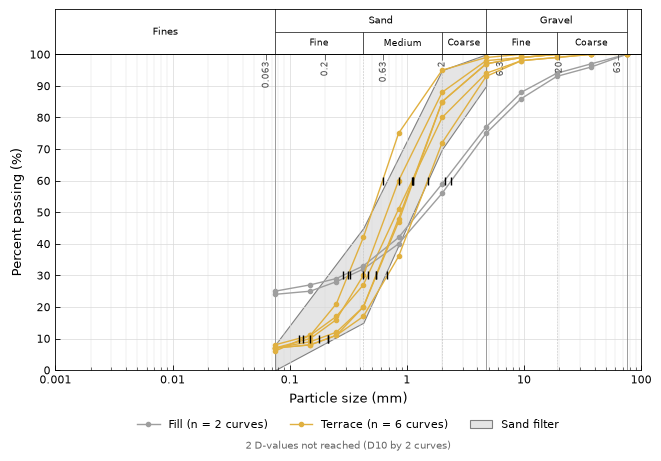
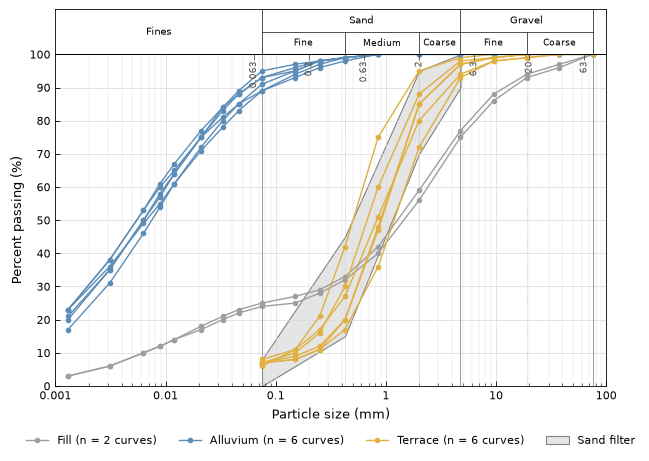
P05: continue the example curves into the fines, D-values off
The example site gains hydrometer tests on the fill bulk samples and the
upper alluvium tubes (six new lean clay curves), so the sample figures
show curves below the #200 sieve. They come from their own random
sequence, so no other example value changed, and QC still finds only the
two planted defects. The sample figures and the README line no longer
pass d_values=True, which is off by default.

diff --git a/tests/data/_make_examples.py b/tests/data/_make_examples.py
@@ -9,6 +9,9 @@ terrace sand, in US units as a US consultant's file would have them. Values
 come from fixed rules plus a seeded ``random.Random``, whose sequence Python
 keeps the same across versions, so the files are reproduced exactly.
 
+The fill and the upper alluvium tubes have hydrometer tests, so their
+grading curves continue into the fines; the terrace sands are sieved only.
+
 Two QC findings are planted, so the QC example has something to report:
 - G002, a gap in the geology log of B-4 from 9.0 to 10.0 ft;
 - A002, a plasticity index in B-3 that doesn't match LL - PL (an arithmetic slip).
@@ -33,6 +36,9 @@ _spec.loader.exec_module(_files)
 group, write_group = _files.group, _files.write_group
 
 rng = random.Random(2026)
+# Hydrometer values have their own sequence, so adding them left every other
+# value in the files unchanged.
+hydrometer_rng = random.Random(2027)
 
 ABBR = [
     ("LOCA_TYPE", "HSA", "Hollow stem auger"),
@@ -70,6 +76,8 @@ DESCRIPTIONS = {
     "TRC": ("SP", "Terrace", "Medium dense to very dense brown SAND with gravel (SP)"),
 }
 SIEVES = [75.0, 37.5, 19.0, 9.5, 4.75, 2.0, 0.85, 0.425, 0.25, 0.15, 0.075]  # mm
+# Hydrometer particle sizes (mm), as a lab's readings at set times give them.
+HYDROMETER = [0.046, 0.033, 0.021, 0.012, 0.0089, 0.0063, 0.0031, 0.0013]
 
 STRATA = """\
 code,geology_unit,soil_class,order,color
@@ -281,11 +289,32 @@ def curve(d50, slope, fines):
     return passing
 
 
+def fines_curve(fines, d50, slope):
+    """Percent passing each hydrometer size, continuing down from the #200 sieve.
+
+    An S-curve through the fines, scaled to meet ``fines`` at 0.075 mm and
+    never rising as size falls.
+    """
+
+    def share(size):
+        return 1 / (1 + (d50 / size) ** slope)
+
+    passing, last = [], fines
+    for size in HYDROMETER:
+        last = min(last, round(fines * share(size) / share(0.075)))
+        passing.append(last)
+    return passing
+
+
 def grading():
-    """GRAG and GRAT rows for each terrace spoon and fill bulk sample."""
+    """GRAG and GRAT rows for each terrace spoon, fill bulk and upper alluvium tube.
+
+    The fill and alluvium have hydrometer points below the #200 sieve.
+    """
     grag, grat = [], []
     for sample in samples():
-        _, _, _, kind, _ = sample
+        _, top, _, kind, _ = sample
+        hydrometer = None
         if kind == "D":
             passing = curve(
                 rng.uniform(0.5, 1.4), rng.uniform(1.6, 2.4), rng.randint(3, 9)
@@ -294,14 +323,32 @@ def grading():
             passing = curve(
                 rng.uniform(1.5, 3.0), rng.uniform(0.9, 1.2), rng.randint(18, 26)
             )
+            hydrometer = (
+                hydrometer_rng.uniform(0.012, 0.025),
+                hydrometer_rng.uniform(0.8, 1.0),
+            )
+        elif kind == "U" and top == 12.5:
+            passing = curve(
+                hydrometer_rng.uniform(0.12, 0.2),
+                hydrometer_rng.uniform(1.8, 2.4),
+                hydrometer_rng.randint(84, 95),
+            )
+            hydrometer = (
+                hydrometer_rng.uniform(0.004, 0.009),
+                hydrometer_rng.uniform(0.7, 0.9),
+            )
         else:
             continue
         gravel = passing[SIEVES.index(4.75)]
         fines = passing[SIEVES.index(0.075)]
         grag.append([*specimen(sample), 100 - gravel, gravel - fines, fines])
+        sizes = list(SIEVES)
+        if hydrometer is not None:
+            passing = passing + fines_curve(fines, *hydrometer)
+            sizes += HYDROMETER
         grat += [
             [*specimen(sample), size, percent]
-            for size, percent in zip(SIEVES, passing, strict=True)
+            for size, percent in zip(sizes, passing, strict=True)
         ]
     grag_group = group(
         "GRAG",
@@ -439,6 +486,7 @@ def main(out=OUT):
     out = Path(out)
     out.mkdir(parents=True, exist_ok=True)
     rng.seed(2026)
+    hydrometer_rng.seed(2027)
     write_site(out / "site.ags")
     (out / "strata.csv").write_text(STRATA, encoding="utf-8", newline="")
     write_csvs(out)

diff --git a/tests/plot/test_grain_size_acceptance.py b/tests/plot/test_grain_size_acceptance.py
@@ -76,7 +76,7 @@ def _sieves(ax):
 
 @pytest.fixture(scope="module")
 def example(tmp_path_factory):
-    """The example project's grading curves (8 curves, US units)."""
+    """The example project's grading curves (14 curves, US units)."""
     folder = tmp_path_factory.mktemp("example")
     p = ht.Project.from_ags(ht.examples.path("site.ags"), db=folder / "site.sqlite")
     p.set_geology_map(ht.examples.path("strata.csv"))
@@ -174,13 +174,27 @@ def test_fractions_none_hides_the_band():
 
 
 def test_example_project_renders(example):
-    fig, ax = _quiet(ht.plot.grain_size, example, d_values=True)
-    assert len(_drawn(ax)) == 8
+    fig, ax = _quiet(ht.plot.grain_size, example)
+    curves = _drawn(ax)
+    assert len(curves) == 14
     texts = [t.get_text() for t in ax.get_legend().get_texts()]
-    assert texts == ["Fill (n = 2 curves)", "Terrace (n = 6 curves)"]  # map order
-    # The two fill curves stop at 24 % and 25 % passing, so D10 isn't reached.
-    assert ax.ags_notes == {"d_value_unreached": 2}
+    assert texts == [  # the map's order
+        "Fill (n = 2 curves)",
+        "Alluvium (n = 6 curves)",
+        "Terrace (n = 6 curves)",
+    ]
+    # The fill and alluvium curves continue below the #200 sieve (hydrometer).
+    assert sum(xy[:, 0].min() < 0.075 for xy in curves.values()) == 8
+    np.testing.assert_allclose(ax.get_xlim(), (0.001, 100))
+    assert ax.ags_notes == {}
+    assert not [line for line in ax.lines if line.get_gid() == "d_value"]
     fig.canvas.draw()
+
+
+def test_example_project_d_values(example):
+    _, ax = _quiet(ht.plot.grain_size, example, d_values=True)
+    # The alluvium's finest hydrometer points pass more than 10 %.
+    assert ax.ags_notes == {"d_value_unreached": 6}
 
 
 def test_sheet_panel_and_global_state(example, assert_no_global_state):

diff --git a/docs/work/m8-index-plots.md b/docs/work/m8-index-plots.md
@@ -324,7 +324,7 @@ Two commits, no change in behavior:
   - A D-value beyond `xlim=` isn't drawn and is counted as beyond the axis limit (§11).
   - After review, the legend and footnote moved below the x label (`add_legend(..., where="bottom")` and `Notes.render(..., where="bottom")`, P00 §11, P05 §5): on the right they took width the log axis needs. The images were redrawn.
   - `README.md` gets a `grain_size()` line in the AGS example (it runs with no warning), and its "Plots" line now names the plasticity chart and the grain size curves.
-- **Example project:** `grain_size(p.grain_size(), d_values=True)` runs with no warning or hint; its footnote counts D10 not reached by the two Fill curves, which stop at 24 % and 25 % passing. On the datasets' good files (datasets.md §13 #14) it runs with no warning or hint.
+- **Example project:** after review, the example site gained hydrometer tests on the fill and the upper alluvium tubes (`tests/data/_make_examples.py`, from their own random sequence, so no other value changed): 14 curves, 8 of them continuing into the fines. `grain_size(p.grain_size())` runs with no warning or hint; with `d_values=True` the footnote counts D10 not reached by the six alluvium curves, whose finest points pass more than 10 %. On the datasets' good files (datasets.md §13 #14) it runs with no warning or hint.
 - SPEC §11 has the `grain_size()` call. `TODO.md` #5 lists the sieve lists to verify; it stays open.
-- **Visual check** (`docs/plots/img/P05-us.png` and `P05-si.png`, the default figure saved at 100 dpi with `bbox_inches="tight"`): the eight example curves in the map's colors and order, D-value ticks, a sand-filter envelope under the gridlines, the USCS band with its dividers, and the footnote count. The two figures differ only in the sieve labels. A single-curve figure was checked too: the dashed leaders and labels sit right. One thing to know:
-  - The sieve labels sit inside the top edge (§8), so curves near 100 % passing at gravel sizes cross the `3/8"`, `3/4"` and `1-1/2"` labels. They stay readable at this size. Putting the labels above the frame, under the band, would clear them; that changes §8 and is left for review.
+- **Visual check** (`docs/plots/img/P05-us.png` and `P05-si.png`, the default figure saved at 100 dpi with `bbox_inches="tight"`): the 14 example curves in the map's colors and order (D-values off, their default), a sand-filter envelope under the gridlines, the USCS band with its dividers, and the footnote count. The two figures differ only in the sieve labels. A single-curve figure was checked too: the dashed leaders and labels sit right. One thing to know:
+  - The sieve labels sit inside the top edge (§8), so curves near 100 % passing cross them: the alluvium curves run through `#200` to `#100`, and the sands through `3/8"` to `1-1/2"`. Putting the labels above the frame, under the band, would clear them; that changes §8 and is left for review.

diff --git a/docs/plots/P05-grain-size.md b/docs/plots/P05-grain-size.md
@@ -167,7 +167,7 @@ fig, ax = ht.plot.grain_size(curves, fractions="iso14688", envelopes="filter_ban
 - **Direction:** `reverse=True` puts 100 mm left of 0.1 mm.
 - **Counts:** the footnote counts short curves, blank points and unreached D-values.
 - **Automated:** renders with each built-in system and a user's; `fractions=None` hides the band; `ax=` composes on a `Sheet`, header included; no `rcParams` change; US and SI differ only in sieve labels.
-- **Visual check:** `docs/plots/img/P05-us.png` and `P05-si.png` from the example project's eight grading curves, with `d_values=True` (ticks, since there are several curves) and an envelope. The single-curve labels are checked by eye but not committed.
+- **Visual check:** `docs/plots/img/P05-us.png` and `P05-si.png` from the example project's 14 grading curves (the fill and alluvium ones continuing into the fines from hydrometer tests) and an envelope, with D-values off, their default. The D-value ticks and the single-curve labels are checked by eye but not committed.
 - **Test data:** the example project and synthetic curves (curve A, shuffled, inches, non-monotonic, short).
 
 ## 13. References

diff --git a/README.md b/README.md
@@ -29,7 +29,7 @@ report.to_csv("qc_report.csv")  # every finding, with its hole, depth and line i
 
 fig, ax = ht.plot.spt_profile(p.spt(), n="spt_n60")
 fig.savefig("spt_profile.png")
-fig, ax = ht.plot.grain_size(p.grain_size(), d_values=True)  # D10, D30 and D60 marked
+fig, ax = ht.plot.grain_size(p.grain_size())  # grading curves with the USCS fractions
 ```
 
 <img src="https://raw.githubusercontent.com/konnerhorton/hangtu/main/docs/img/readme-spt.png" alt="SPT N60 against elevation, colored by geology unit, with refusals drawn at the cap and counted" width="440">
